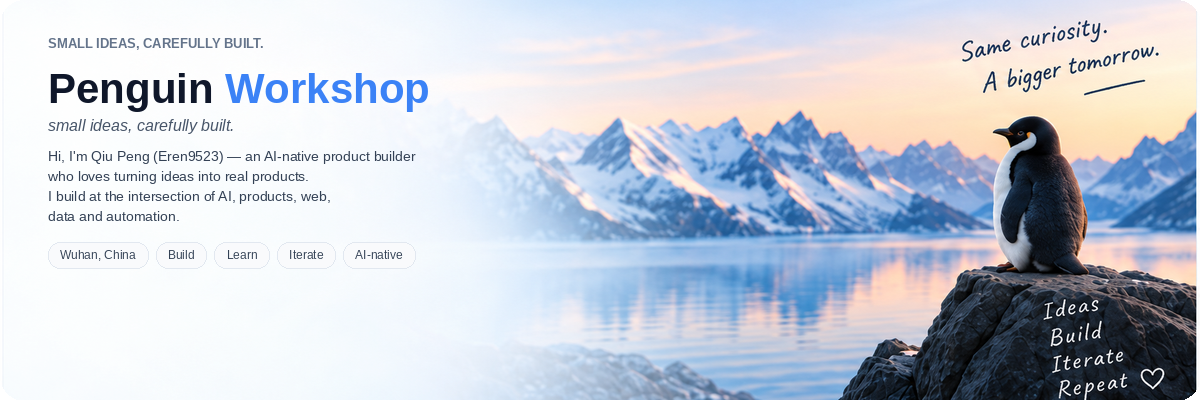
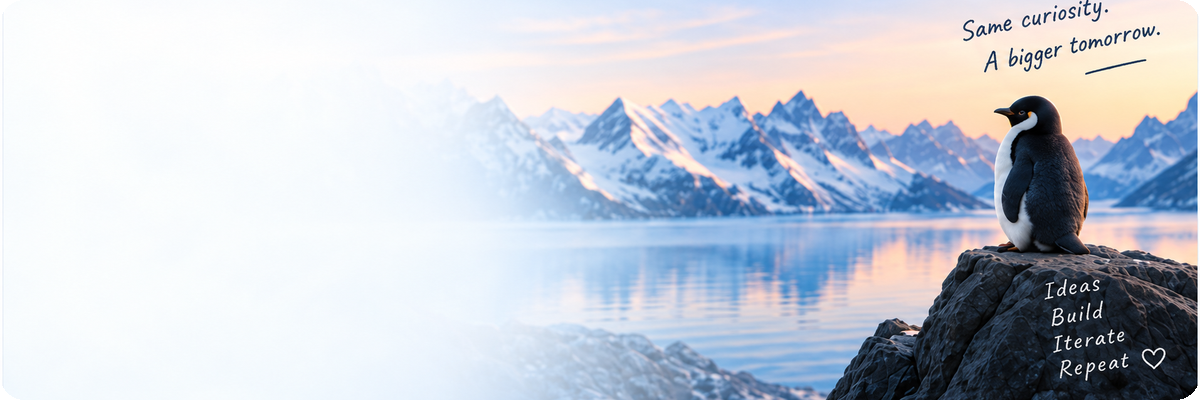
feat: make profile text clickable with typing animation
Rebuild hero as background-only landscape and move title, bio, tags,
and project cards into real Markdown/HTML so links are selectable and
clickable. Add readme-typing-svg animation for the Penguin Workshop slogan.

diff --git a/README.md b/README.md
@@ -1,14 +1,26 @@
 <!--
   GitHub Profile README — Eren9523 / Penguin Workshop
-  Real GFM + safe HTML only. Static SVG assets. No fake site chrome.
+  Real GFM + safe HTML: clickable text, not baked into PNGs.
 -->
 
 <div align="center">
-  <img src="assets/hero/penguin-workshop-light.png" width="1200" height="400" alt="Penguin Workshop — Qiu Peng (Eren9523), AI-native product builder. Slogan: small ideas, carefully built. Tags: Wuhan, Build, Learn, Iterate, AI-native." />
+  <img src="./assets/hero/penguin-workshop-light.png" width="100%" alt="Penguin Workshop landscape with penguin" />
+  <br/>
+  <img src="https://readme-typing-svg.demolab.com?font=Inter&weight=600&size=22&duration=3500&pause=1200&color=3B82F6&center=true&vCenter=true&width=600&lines=Penguin+Workshop;small+ideas%2C+carefully+built." alt="Penguin Workshop typing" />
+  <h2>Penguin Workshop</h2>
+  <p><em>small ideas, carefully built.</em></p>
+  <p>Hi, I'm <strong>Qiu Peng</strong> (<a href="https://github.com/Eren9523">Eren9523</a>) — an AI-native product builder who loves turning ideas into real products.</p>
+  <p>I build at the intersection of AI, products, web, data and automation, and I'm always curious about what's next.</p>
+  <p>
+    <code>📍 Wuhan, China</code>
+    <code>♥ Build</code>
+    <code>▣ Learn</code>
+    <code>🚀 Iterate</code>
+    <code>∞ AI-native</code>
+  </p>
 </div>
 
 <br/>
-
 
 ---
 
@@ -26,25 +38,56 @@
 <table width="100%">
   <tr>
     <td width="50%" valign="top">
+      <h3><a href="https://github.com/Eren9523/PenguinQuant">PenguinQuant</a></h3>
+      <p>AI-assisted quantitative research — backtesting, strategy exploration, and AI-native quant workflows.</p>
+      <p>
+        <code>Python</code>
+        <code>AI</code>
+        <code>Quant</code>
+        <code>Backtest</code>
+      </p>
       <a href="https://github.com/Eren9523/PenguinQuant">
-        <img src="assets/projects/project-01.svg" width="560" height="290" alt="01 PenguinQuant — AI-assisted quantitative research" />
+        <img src="./assets/screenshots/project-01-shot.png" width="100%" alt="PenguinQuant screenshot" />
       </a>
     </td>
     <td width="50%" valign="top">
+      <h3><a href="https://github.com/Eren9523/miaomiaocat">MiaomiaoCat</a></h3>
+      <p>AI-powered CET writing companion — practice essays, get feedback, and improve with guided prompts.</p>
+      <p>
+        <code>TypeScript</code>
+        <code>React</code>
+        <code>AI</code>
+        <code>Education</code>
+      </p>
       <a href="https://github.com/Eren9523/miaomiaocat">
-        <img src="assets/projects/project-02.svg" width="560" height="290" alt="02 MiaomiaoCat — AI-powered CET writing companion" />
+        <img src="./assets/screenshots/project-02-shot.png" width="100%" alt="MiaomiaoCat screenshot" />
       </a>
     </td>
   </tr>
   <tr>
     <td width="50%" valign="top">
+      <h3><a href="https://github.com/Eren9523/finance-project">模型推荐助手</a></h3>
+      <p>AI model recommendation workbench — compare models and pick the right one for the job.</p>
+      <p>
+        <code>Python</code>
+        <code>AI</code>
+        <code>Recommendation</code>
+        <code>Workbench</code>
+      </p>
       <a href="https://github.com/Eren9523/finance-project">
-        <img src="assets/projects/project-03.svg" width="560" height="290" alt="03 模型推荐助手 — AI model recommendation workbench" />
+        <img src="./assets/screenshots/project-03-shot.png" width="100%" alt="模型推荐助手 screenshot" />
       </a>
     </td>
     <td width="50%" valign="top">
+      <h3><a href="https://github.com/Eren9523/my-introduce-of-web">企鹅站台</a></h3>
+      <p>Personal site — a small station for ideas, projects, and the Penguin Workshop story.</p>
+      <p>
+        <code>Web</code>
+        <code>Frontend</code>
+        <code>Portfolio</code>
+      </p>
       <a href="https://github.com/Eren9523/my-introduce-of-web">
-        <img src="assets/projects/project-04.svg" width="560" height="290" alt="04 企鹅站台 — personal site" />
+        <img src="./assets/screenshots/project-04-shot.png" width="100%" alt="企鹅站台 screenshot" />
       </a>
     </td>
   </tr>
@@ -105,7 +148,7 @@
 <p><strong>CONTRIBUTIONS</strong></p>
 
 <div align="center">
-  <img src="assets/contributions.svg" alt="Real GitHub contribution heatmap for Eren9523 (auto-updated daily)" />
+  <img src="./assets/contributions.svg" alt="Real GitHub contribution heatmap for Eren9523 (auto-updated daily)" />
 </div>
 
 <br/>
